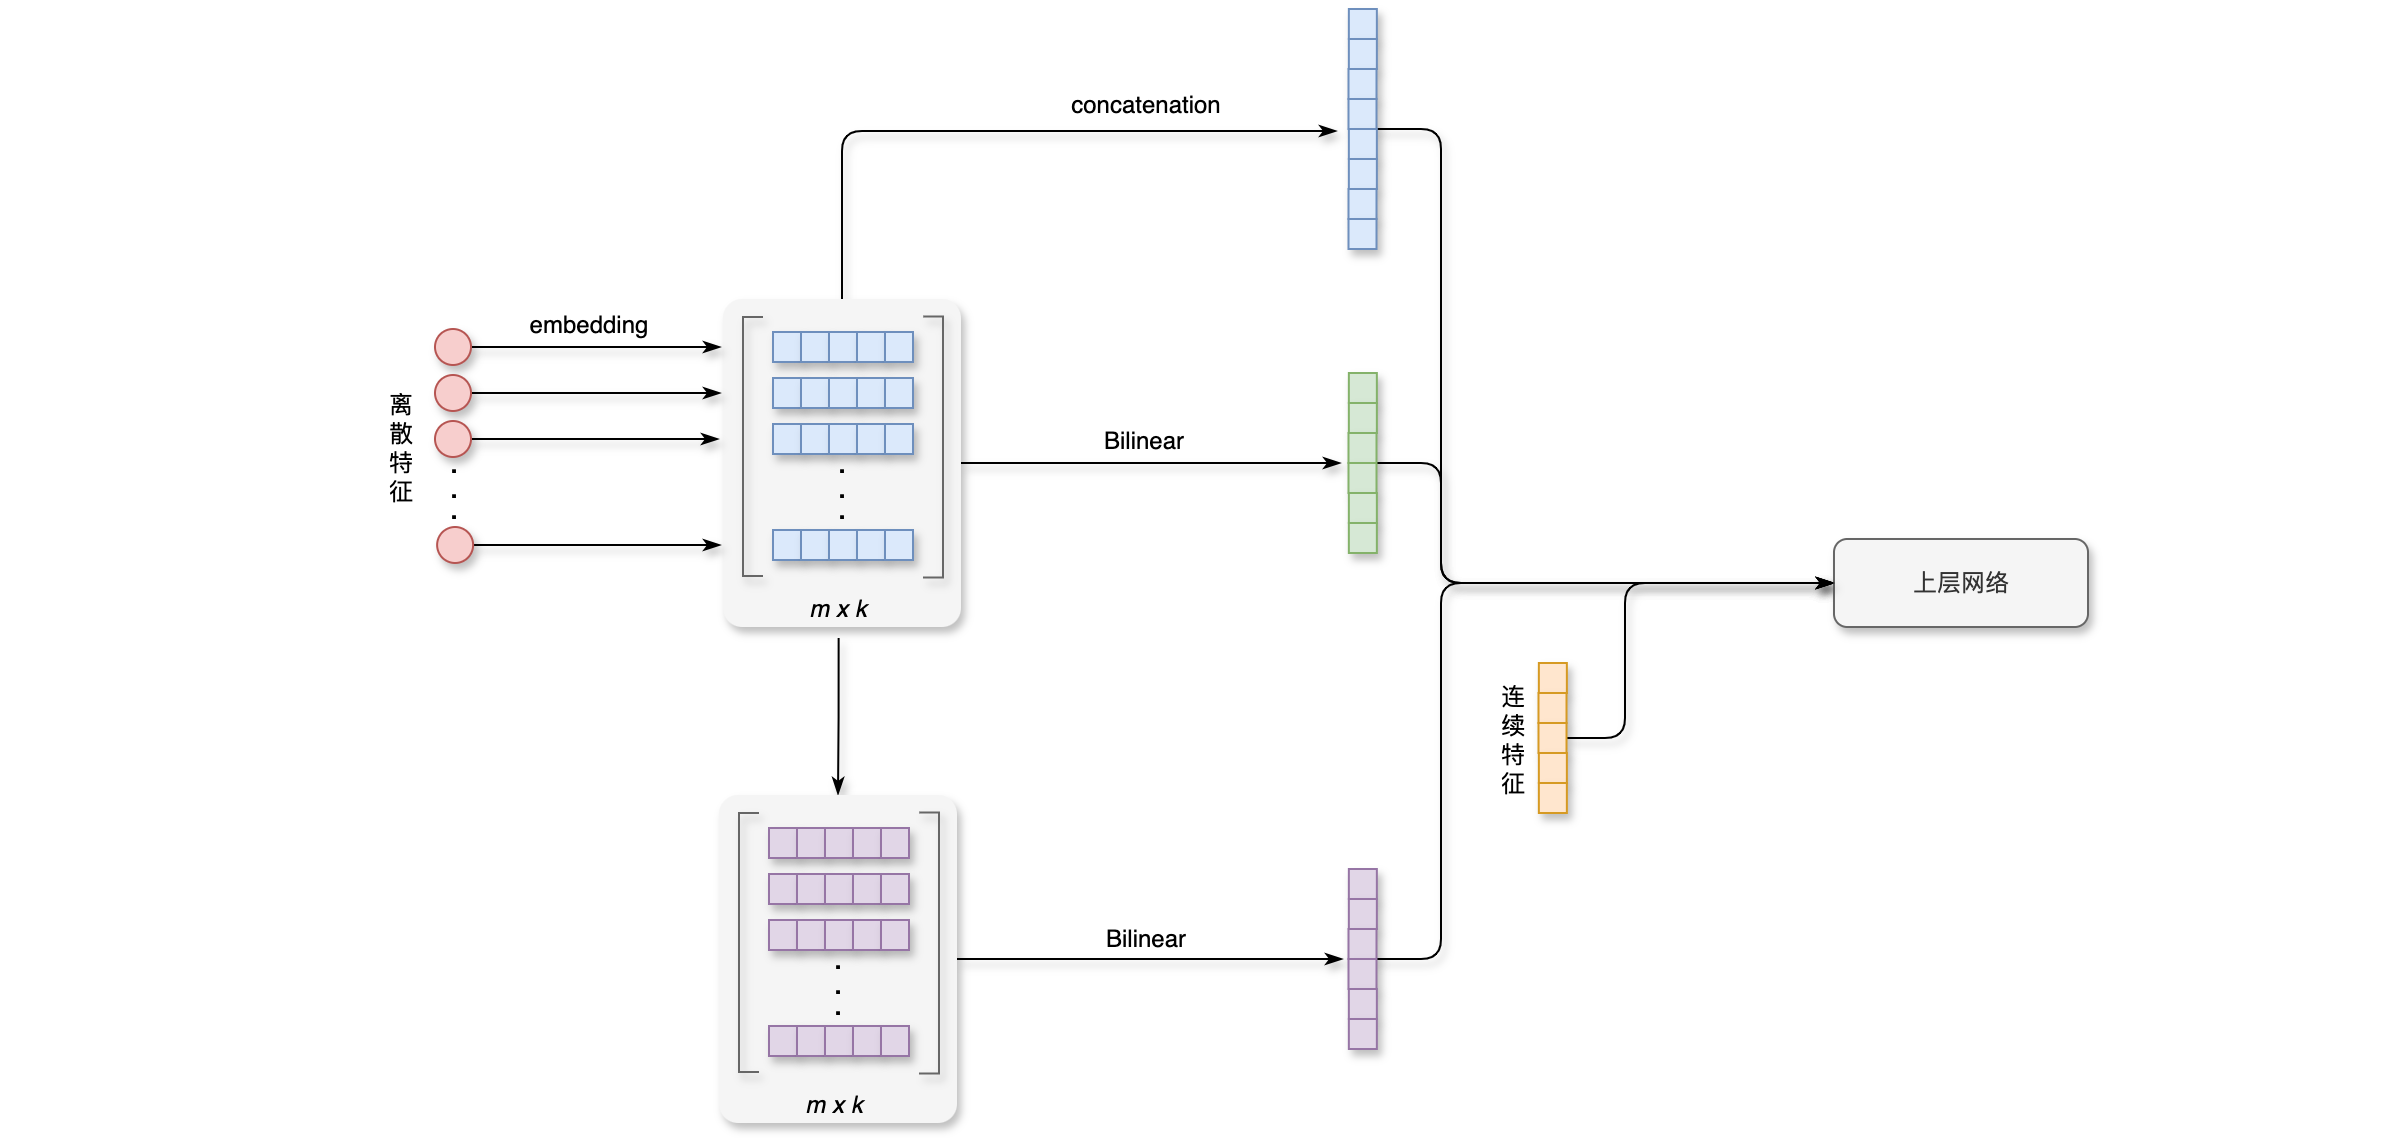
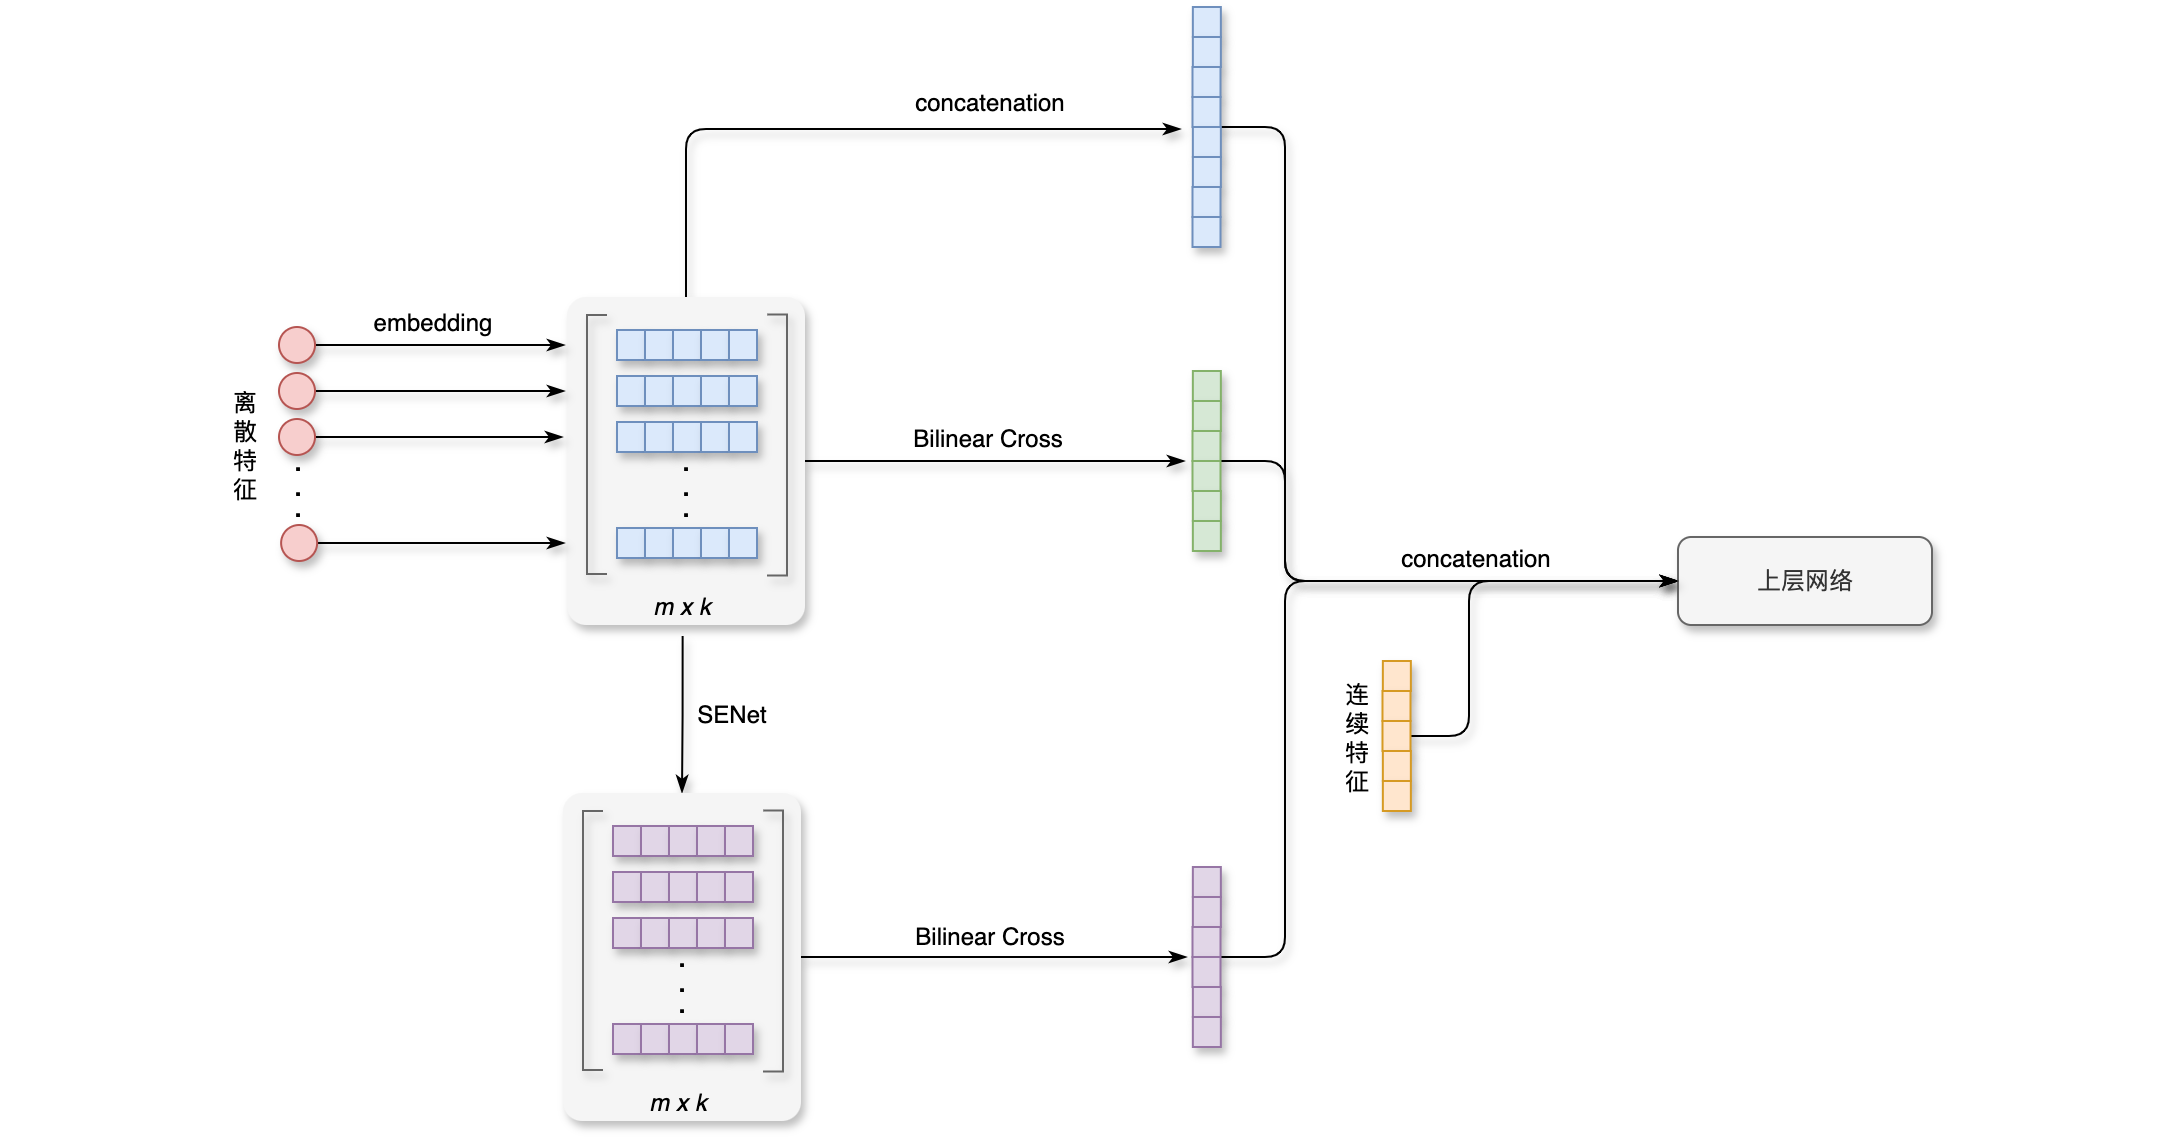
ai

diff --git a/source/_posts/artificial-intelligence/ML15_theory_study.md b/source/_posts/artificial-intelligence/ML15_theory_study.md
@@ -50,7 +50,7 @@ mathjax:
 为了方便，把{% mathjax %}m{% endmathjax %}个离散特征映射成了{% mathjax %}k{% endmathjax %}维向量，事实上，这{% mathjax %}m{% endmathjax %}个向量的维度可以不同，不会影响`SENet`，`SENet`对每个向量做`AvgPool`得到一个{% mathjax %}m{% endmathjax %}维向量，再用两个全连接层得到另外一个{% mathjax %}m{% endmathjax %}维向量，用来对{% mathjax %}m{% endmathjax %}个向量做加权，最终`SENet`输出{% mathjax %}m{% endmathjax %}个向量。`SENet`的本质是对离散特征做`field-wise`加权，`field`：用户`ID Embedding`是`64`维向量，向量的`64`个元素算一个`field`，并获得相同的权重。如果有{% mathjax %}m{% endmathjax %}个离散特征，即{% mathjax %}m{% endmathjax %}个`fields`，那么权重向量就是{% mathjax %}m{% endmathjax %}维，用这个向量的一个元素给`field`做加权，也就是说，`SENet`会根据所有特征自动判断每个`field`特征重要性，重要的`field`权重高、不重要的`field`权重低。
 
 `field`**间特征交叉**：意思是把两个`field`做交叉，得到新的特征，比如说，把物品所在位置和用户所在位置各自做`embedding`，然后把两个`embedding`向量做交叉。交叉两个向量方法如下图所示：
-{% asset_img ml_7.png "field间交叉，左边基于内积，右边基于阿达玛乘积" %}
+{% asset_img ml_7.png "field间特征交叉，左边基于内积，右边基于阿达玛乘积" %}
 
 **内积**和**阿达玛乘积**(`Hadamard Product`)是最简单的交叉方法：
 - **内积**：{% mathjax %}x_i{% endmathjax %}和{% mathjax %}x_j{% endmathjax %}是两个特征的`embedding`，求它们的内积得到一个实数{% mathjax %}f_{ij}{% endmathjax %}，如果有{% mathjax %}m{% endmathjax %}`fields`，也就是说有{% mathjax %}m{% endmathjax %}个离散特征，会计算出{% mathjax %}m^2{% endmathjax %}个实数，**推荐系统**中{% mathjax %}m{% endmathjax %}的数量不是很大，数量也就几十个。
@@ -59,8 +59,10 @@ mathjax:
 `Bilinear Cross`是一种更先进的特征交叉方法，`Bilinear Cross`有内积、**阿达玛乘积**(`Hadamard Product`)两种形式：
 - `Bilinear Cross`（**内积**）：{% mathjax %}x_i{% endmathjax %}和{% mathjax %}x_j{% endmathjax %}是两个特征的`embedding`，它们的形状可以相同，也可以不同。计算{% mathjax %}x_i{% endmathjax %}转置乘以{% mathjax %}w_{ij}{% endmathjax %}，再乘以{% mathjax %}x_j{% endmathjax %}，记作{% mathjax %}f_{ij} = x^{\mathsf{T}}_i\cdot w_{ij}\cdot x_j{% endmathjax %}，其中得到一个实数{% mathjax %}f_{ij}{% endmathjax %}，{% mathjax %}f_{ij}{% endmathjax %}是两个`fields`的交叉，用这种特征交叉的方式，如果有{% mathjax %}m{% endmathjax %}个`fields`，那么会产生{% mathjax %}m^2{% endmathjax %}个交叉特征，都是实数。交叉特征的数量不是很大，做`Bilinear Cross`的时候，需要很多像{% mathjax %}w_{ij}{% endmathjax %}这样的参数矩阵，如果有{% mathjax %}m{% endmathjax %}个fields，那么就会有{% mathjax %}m^2/2{% endmathjax %}个参数矩阵。加入每个参数矩阵的大小都是{% mathjax %}64\times 64{% endmathjax %}，有`1000`个这样的参数矩阵，那么`Bilinear Cross`的参数量是{% mathjax %} 4\,000\,000{% endmathjax %}个，参数数量太大。想要减少数量，需要人工指定某些相关的而且重要的特征做交叉，而不能让所有特征做两两交叉。
 - `Bilinear Cross`（**阿达玛乘积**）：{% mathjax %}x_i{% endmathjax %}和{% mathjax %}x_j{% endmathjax %}是两个特征的`embedding`，先把矩阵{% mathjax %}w_{x_ix_j}{% endmathjax %}和{% mathjax %}x_j{% endmathjax %}相乘得出另一个向量，再求与向量{% mathjax %}x_i{% endmathjax %}的**阿达玛乘积**，也就是让两个向量逐元素相乘，**阿达玛乘积**得出一个向量{% mathjax %}f_{ij}{% endmathjax %}，用这种特征交叉的方式，如果有{% mathjax %}m{% endmathjax %}个`fields`，就会计算出{% mathjax %}m^2{% endmathjax %}个向量，对{% mathjax %}m^2{% endmathjax %}个向量做`concatnation`得到的向量维度太大了，而且其中大多数都是无意义的特征，在实践中，最好人工指定一部分特征做交叉，而不是让所有{% mathjax %}m{% endmathjax %}个特征两两做交叉。这样既可以减少参数的数量，又可以让`concatnation`之后的向量变小。
-{% asset_img ml_8.png "field间交叉，左边基于Bilinear Cross(内积)，右边基于Bilinear Cross(阿达玛乘积)" %}
+{% asset_img ml_8.png "field间特征交叉，左边基于Bilinear Cross(内积)，右边基于Bilinear Cross(阿达玛乘积)" %}
 
 `FiBiNet`：把`SENet`和`Bilinear Cross`结合起来就是`FiBiNet`，用户`ID`、物品`ID`、物品类目等等是用到的离散特征，对这些离散特征做`embedding`，用`1`个向量表示一个特征，把这些向量做`concatenation`，得到一个高维向量，对这些`embedding`向量做`Bilinear Cross`，得到很多交叉特征，拼接成一个向量。用`SENet`对`embedding`向量做加权，得到一个一个同样大小的向量，在对这些向量做`Bilinear Cross`，得到很多交叉特征，拼接成一个向量。这些是`FiBiNet`对离散特征变换之后得到的向量，对它们做`concatenation`，输入上层的神经网络，这是还有连续特征，连续特征变换之后，输入上层的神经网络。跟简单排序模型相比，`FiBiNet`用了`SENet`加权和`Bilinear Cross`，在精排模型中使用效果很显著。如下图所示：
 {% asset_img ml_9.png "FiBiNet网络结构" %}
+
+#### 行为序列 - 用户行为序列建模
 
